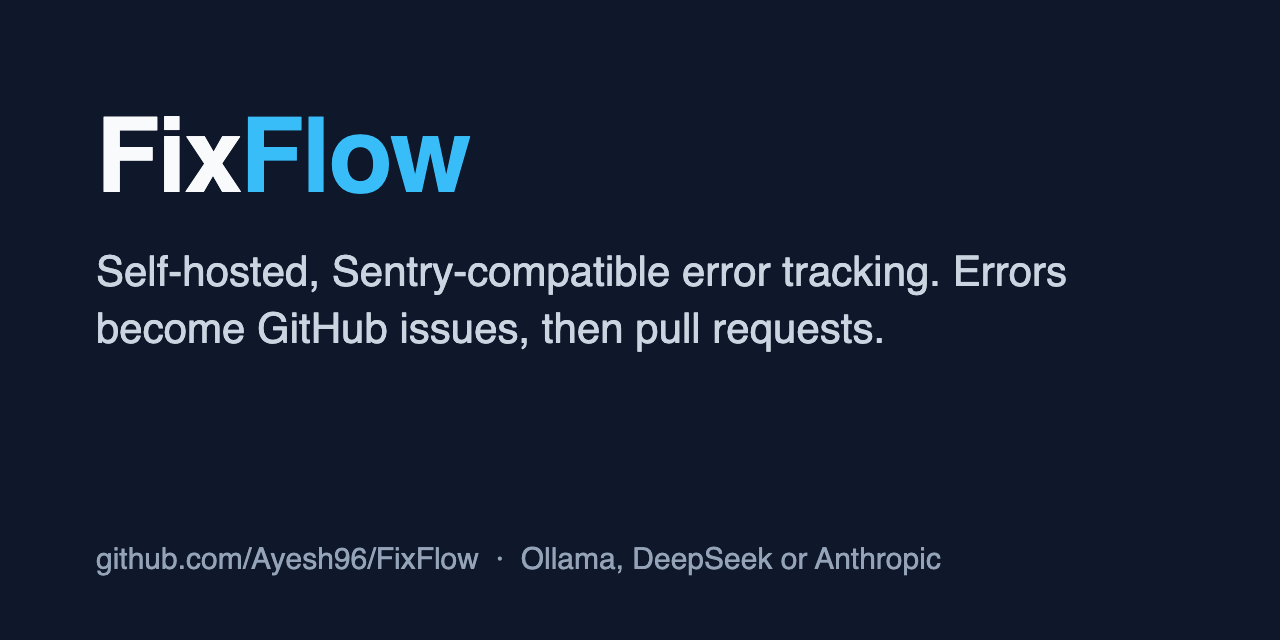
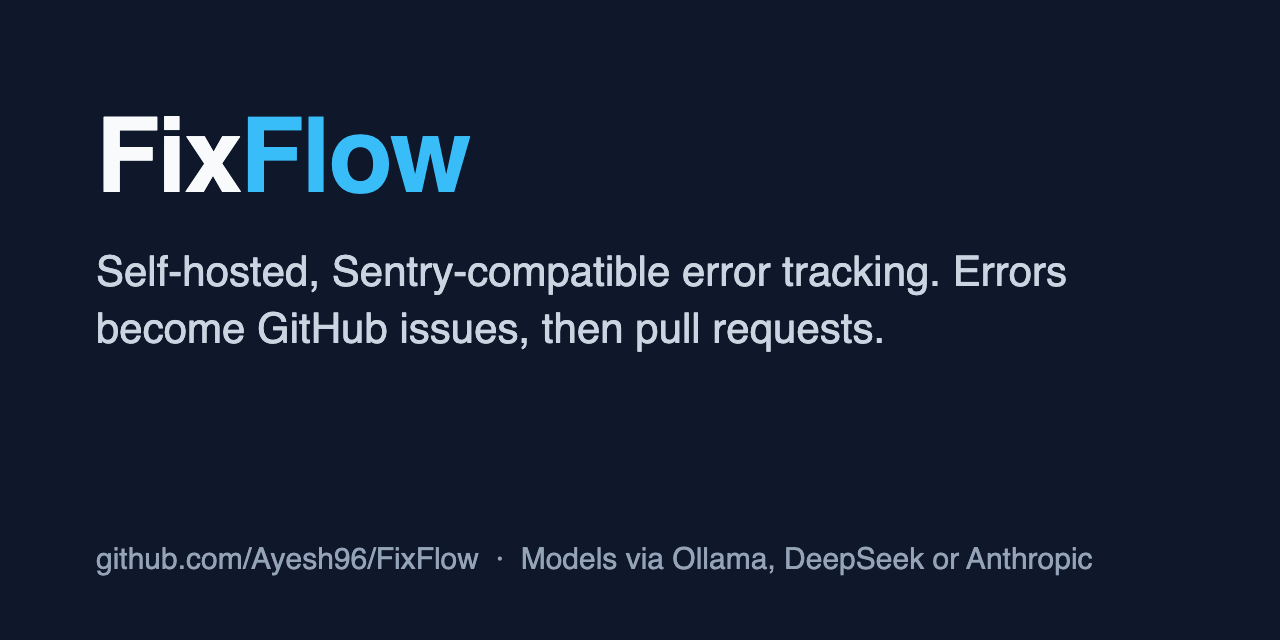
Say Ollama serves a model, not that it is one
Ollama is the runtime; qwen2.5-coder:7b is the default model. Docs, README,
the llms.txt summary and the reference now name providers (Ollama,
DeepSeek, Anthropic) and models separately, as ORCH_LLM_PROVIDERS does.

Changed region(s): [[0.4062, 0.8438, 0.8438, 0.9062]]

diff --git a/README.md b/README.md
@@ -1,6 +1,6 @@
 # FixFlow
 
-FixFlow is self-hosted, Sentry-compatible error tracking that opens a GitHub issue for each new error and then tries a fix with an AI model, so you get a pull request to review. It runs on your own machine with a local Ollama model, DeepSeek or Anthropic, and works with the Sentry SDKs your app already uses.
+FixFlow is self-hosted, Sentry-compatible error tracking that opens a GitHub issue for each new error and then tries a fix with an AI model, so you get a pull request to review. It runs on your own machine. The model can be served locally by Ollama (default model `qwen2.5-coder:7b`) or called through the DeepSeek or Anthropic API, and it works with the Sentry SDKs your app already uses.
 
 [![License: FSL-1.1-ALv2](https://img.shields.io/badge/license-FSL--1.1--ALv2-blue)](LICENSE)
 [![CI](https://github.com/Ayesh96/FixFlow/actions/workflows/ci.yml/badge.svg)](https://github.com/Ayesh96/FixFlow/actions/workflows/ci.yml)
@@ -39,15 +39,15 @@ To check the receiving side without an app, `curl http://localhost:3000/healthz`
 
 No build step is needed if you use a [release tarball](https://github.com/Ayesh96/FixFlow/releases/latest) instead: verify it with `sha256sums.txt`, unpack it, and run `node bin/fixflow.mjs`.
 
-Triage works without any model (a rule-based fallback is used). To let the resolver write fixes, run [Ollama](https://ollama.com) locally, or set `ORCH_DEEPSEEK_API_KEY` or `ORCH_ANTHROPIC_API_KEY`. See the [reference](docs/reference.md#configuration).
+Triage works with no model at all (a rule-based fallback is used). To let the resolver write fixes you need a model provider: run [Ollama](https://ollama.com) locally and pull a coding model (the default is `qwen2.5-coder:7b`), or set `ORCH_DEEPSEEK_API_KEY` or `ORCH_ANTHROPIC_API_KEY`. See the [reference](docs/reference.md#configuration).
 
 ## Features
 
 - **Sentry-compatible ingest.** Accepts the Sentry `store` and `envelope` endpoints, including gzip, so you change a DSN and nothing else in your app.
 - **Grouping.** Errors are grouped by exception type, crashing file and line, so the same error 2,000 times is one issue with a count.
-- **Triage.** A local or hosted model, or a rule-based fallback, labels each error (for example `bot-safe` or `needs-human`) and says why.
+- **Triage.** A model (local through Ollama, or hosted) or a rule-based fallback, labels each error (for example `bot-safe` or `needs-human`) and says why.
 - **One GitHub issue per new error**, with the stack trace, and comments at 100, 1,000 and 10,000 events by default.
-- **Resolver.** Fetches your branch, lets a model attempt a fix in a throwaway worktree, runs your check command before and after, and opens a pull request. It marks the pull request unverified when the check is missing or fails.
+- **Resolver.** Fetches your branch, lets the model attempt a fix in a throwaway worktree, runs your check command before and after, and opens a pull request. It marks the pull request unverified when the check is missing or fails.
 
 ## How it works
 
@@ -69,13 +69,13 @@ The dashboard (`127.0.0.1:7420`) and the ingest endpoint (`127.0.0.1:3000`) are 
 |---|---|---|---|
 | Receives Sentry SDK events | Yes | Yes | Yes |
 | Opens GitHub issues from errors | Yes, built in | Yes (integration) | Varies; check each project |
-| Tries a code fix and opens a pull request | Yes, with your own model | Yes, through Seer, a paid Sentry feature | No |
+| Tries a code fix and opens a pull request | Yes, with a model you provide | Yes, through Seer, a paid Sentry feature | No |
 | Runs on one machine with no extra services | Yes (Node and git) | Heavy; the self-hosted stack needs several services | Lighter than Sentry |
 | Performance tracing, session replay, alert rules, release health | **No** | **Yes** | Partial or none |
 | Multiple users, teams, roles | **No**, single user on loopback | **Yes** | Yes |
 | Quality of the fixes | Depends on the model you give it; no measured success rate yet | Likely better models and context | n/a |
 
-Choose Sentry if you need tracing, alerting, teams or a large SDK and integration ecosystem. Choose GlitchTip or Bugsink if you want a mature, multi-user, self-hosted tracker and do not need automated fixes. Choose FixFlow if you want the loop from error to reviewable pull request on your own machine, for a small project, and you accept that it is young. General coding agents that work from a GitHub issue, such as GitHub's Copilot coding agent, are broader than FixFlow and may give better fixes; FixFlow's difference is the Sentry intake and that a local model can be used.
+Choose Sentry if you need tracing, alerting, teams or a large SDK and integration ecosystem. Choose GlitchTip or Bugsink if you want a mature, multi-user, self-hosted tracker and do not need automated fixes. Choose FixFlow if you want the loop from error to reviewable pull request on your own machine, for a small project, and you accept that it is young. General coding agents that work from a GitHub issue, such as GitHub's Copilot coding agent, are broader than FixFlow and may give better fixes; FixFlow's difference is the Sentry intake and that the model can run locally.
 
 Triage was measured on 12 replayed situations; see [docs/TRIAGE-BEFORE-AFTER.md](docs/TRIAGE-BEFORE-AFTER.md). Fix quality has not been measured.
 

diff --git a/docs/local-llm-error-triage.md b/docs/local-llm-error-triage.md
@@ -1,17 +1,17 @@
 ---
 title: Local LLM error triage with Ollama: what FixFlow's labels mean
-description: Triage production errors with a local Ollama model: how to enable it in FixFlow, the labels it applies and what each means, how it falls back to rules, and what was measured.
+description: Triage production errors with a model served by local Ollama: how to enable it in FixFlow, the labels it applies and what each means, how it falls back to rules, and what was measured.
 ---
 
 # Local LLM error triage with Ollama
 
-Triage decides whether a new error looks like a small, fixable bug or needs a person. FixFlow can use a local Ollama model, DeepSeek or Anthropic, and falls back to built-in rules.
+Triage decides whether a new error looks like a small, fixable bug or needs a person. FixFlow can get its model from a local Ollama server, or from the DeepSeek or Anthropic API, and falls back to built-in rules when none is available.
 
-## Enable Ollama
+## Use Ollama
 
-1. Install [Ollama](https://ollama.com) and pull a model: `ollama pull qwen2.5-coder:7b` (the default).
+1. Install [Ollama](https://ollama.com), the runtime that serves models locally, and pull a model: `ollama pull qwen2.5-coder:7b` (the default).
 2. Start FixFlow with `ORCH_OLLAMA_URL=http://localhost:11434` set. Triage uses Ollama only when this is set. The resolver always tries a local Ollama at that address.
-3. Change the model with `ORCH_OLLAMA_MODEL`.
+3. Use another model that Ollama can serve with `ORCH_OLLAMA_MODEL`.
 
 With no model configured, the rule-based triage runs. If models are configured and all fail, the error is recorded as `ERRORED` and can be triaged again.
 
@@ -34,4 +34,4 @@ Some facts cannot be overruled by the model. For example, `bot-safe` is not comb
 
 ## What was measured
 
-Twelve replayed situations were run against a copy of a real project with injected bugs, before and after fixes, with rules only and with `qwen2.5-coder:7b`. The tables are in [Triage test results](TRIAGE-BEFORE-AFTER.md). The test covers triage only, not the quality of fixes.
+Twelve replayed situations were run against a copy of a real project with injected bugs, before and after fixes, with rules only and with the `qwen2.5-coder:7b` model served by Ollama. The tables are in [Triage test results](TRIAGE-BEFORE-AFTER.md). The test covers triage only, not the quality of fixes.

diff --git a/docs/reference.md b/docs/reference.md
@@ -53,14 +53,14 @@ Everything is optional. Copy `.env.example` to `.env`.
 | `ORCH_DATA_DIR` | `~/.fixflow` | Where the token, databases, key and clones live. |
 | `ORCH_GITHUB_API_URL` | `https://api.github.com` | For GitHub Enterprise. |
 | `ORCH_GITHUB_CLONE_URL` | `https://github.com/{repo}.git` | Where to clone from, with `{repo}` for `owner/name`. |
-| `ORCH_OLLAMA_URL` | unset | Local Ollama: triages new errors and writes fixes. The resolver always has a local Ollama to try (`http://localhost:11434`); triage uses it only when this is set. |
-| `ORCH_OLLAMA_MODEL` | `qwen2.5-coder:7b` | |
-| `ORCH_DEEPSEEK_API_KEY` | unset | Turns on DeepSeek as a model for triage and the resolver. |
+| `ORCH_OLLAMA_URL` | unset | Address of a local Ollama server, which runs the model for triage and fixes. The resolver always tries Ollama at `http://localhost:11434`; triage uses it only when this is set. |
+| `ORCH_OLLAMA_MODEL` | `qwen2.5-coder:7b` | The model Ollama is asked to run. |
+| `ORCH_DEEPSEEK_API_KEY` | unset | Turns on DeepSeek as a provider for triage and the resolver. |
 | `ORCH_DEEPSEEK_MODEL` | `deepseek-flash` | Or `deepseek-v4-pro`. Thinking mode is always off. |
 | `ORCH_DEEPSEEK_API_URL` | `https://api.deepseek.com` | |
-| `ORCH_ANTHROPIC_API_KEY` | unset | Turns on Anthropic as a model for triage and the resolver. |
+| `ORCH_ANTHROPIC_API_KEY` | unset | Turns on Anthropic as a provider for triage and the resolver. |
 | `ORCH_ANTHROPIC_MODEL` | `claude-haiku-4-5` | |
-| `ORCH_LLM_PROVIDERS` | `ollama,deepseek,anthropic` | The models to try, in order, for both triage and the resolver; the first is used and the rest are fallbacks when it fails. A model that is not set up is skipped by default, and is an error when you name it here. |
+| `ORCH_LLM_PROVIDERS` | `ollama,deepseek,anthropic` | The providers to try, in order, for both triage and the resolver; the first is used and the rest are fallbacks when it fails. A provider that is not set up is skipped by default, and is an error when you name it here. |
 | `ORCH_TRIAGE_PROVIDERS` / `ORCH_RESOLVER_PROVIDERS` | `ORCH_LLM_PROVIDERS` | The same, for one purpose only. |
 
 With no model set up for triage, new errors are triaged by the rule-based heuristic. When models are set up and all of them fail, the error is recorded as ERRORED and can be triaged again.

diff --git a/docs/ai-bug-fix-pull-requests.md b/docs/ai-bug-fix-pull-requests.md
@@ -21,10 +21,10 @@ The pull request says what changed, which files, and whether the check passed. W
 
 - **Retries.** A failed attempt waits 15 minutes, doubling each time, and stops after 3 attempts (`ORCH_RESOLVER_MAX_ATTEMPTS`). Running an issue from the dashboard ignores the limit.
 - **Concurrency.** Three fixes at once by default.
-- **Cost.** With DeepSeek or Anthropic, each attempt is paid model calls. A local Ollama model has no per-call cost.
-- **Quality.** Fix quality depends on the model. The default local model is `qwen2.5-coder:7b`. There is no measured success rate for fixes yet, so review every pull request as you would a stranger's.
+- **Cost.** With DeepSeek or Anthropic, each attempt is paid model calls. A model served locally by Ollama has no per-call cost, only your own hardware.
+- **Quality.** Fix quality depends on the model. The default model for Ollama is `qwen2.5-coder:7b`, a small model, so expect it to manage only simple changes. There is no measured success rate for fixes yet, so review every pull request as you would a stranger's.
 - **Execution.** The check command runs through a shell, as you, on your machine. Only set commands you would run yourself.
 
 ## Choosing a model
 
-Set `ORCH_LLM_PROVIDERS` (default `ollama,deepseek,anthropic`) to the models to try in order. The first available one is used and the rest are fallbacks. See [local LLM triage](local-llm-error-triage.md) for Ollama setup and the [reference](reference.md) for keys and URLs.
+Set `ORCH_LLM_PROVIDERS` (default `ollama,deepseek,anthropic`) to the providers to try, in order. The first one that is set up is used and the rest are fallbacks. See [local LLM triage](local-llm-error-triage.md) for Ollama setup and the [reference](reference.md) for keys and URLs.

diff --git a/docs/index.md b/docs/index.md
@@ -5,7 +5,7 @@ description: FixFlow groups errors from Sentry SDKs, opens a GitHub issue for ea
 
 # FixFlow
 
-FixFlow is self-hosted, Sentry-compatible error tracking that opens a GitHub issue for each new error and can then try a fix with an AI model, so you get a pull request to review. It runs on your own machine with a local Ollama model, DeepSeek or Anthropic.
+FixFlow is self-hosted, Sentry-compatible error tracking that opens a GitHub issue for each new error and can then try a fix with an AI model, so you get a pull request to review. It runs on your own machine. The model can be served locally by Ollama or called through the DeepSeek or Anthropic API.
 
 Source and releases: [github.com/Ayesh96/FixFlow](https://github.com/Ayesh96/FixFlow).
 

diff --git a/docs/self-hosted-error-tracking.md b/docs/self-hosted-error-tracking.md
@@ -30,7 +30,7 @@ Raw events older than 30 days are pruned hourly (`ORCH_ERRORS_RETENTION_DAYS`; `
 
 ## What leaves the machine
 
-Only requests to GitHub (issues, clones, pushes, pull requests) and to the model you choose. With a local Ollama model, no code is sent to a model provider. With DeepSeek or Anthropic configured, stack frames and code excerpts go to that provider.
+Only requests to GitHub (issues, clones, pushes, pull requests) and to the model you choose. With a model served locally by Ollama, no code is sent to a third-party provider. With DeepSeek or Anthropic configured, stack frames and code excerpts go to that provider.
 
 ## Backups and upgrades
 
